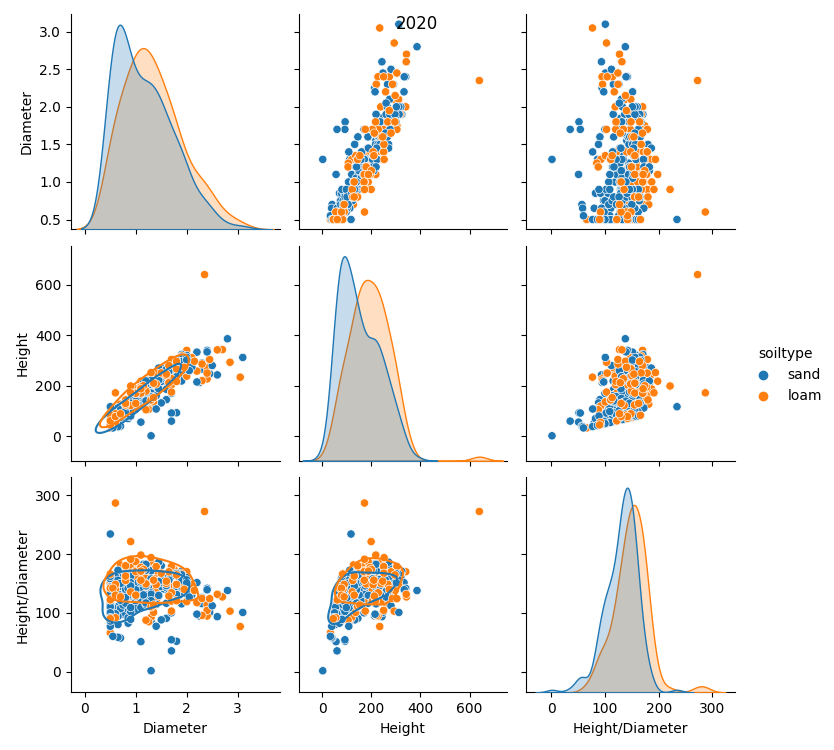
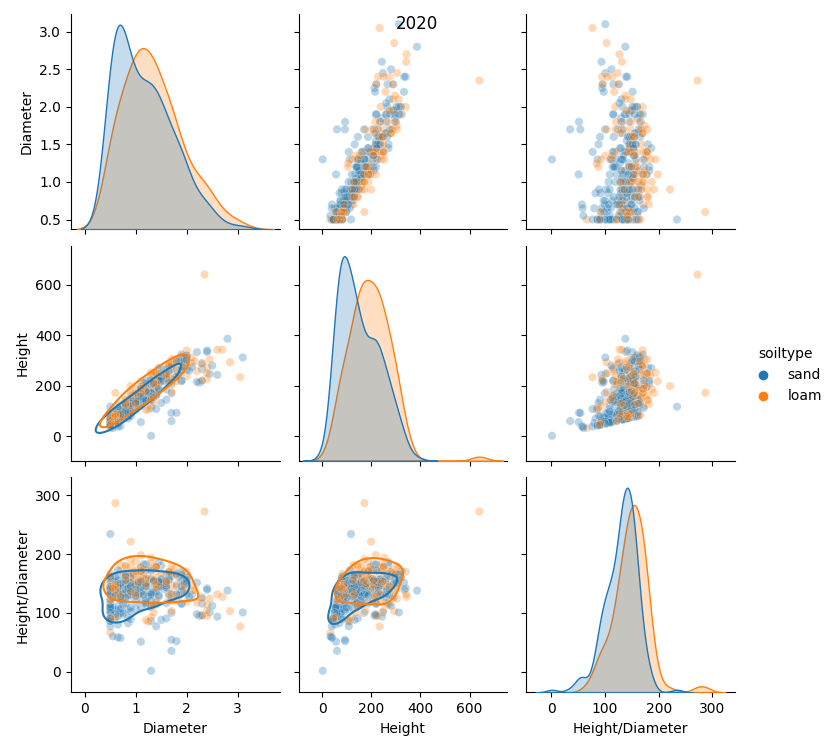
setting alpha to 0.3 in scatter plots

diff --git a/analysis.py b/analysis.py
@@ -66,6 +66,7 @@ def make_scatter_plot(data):
             data[data["year"].isin(years)],
             hue="soiltype",
             diag_kws={"common_norm": False},
+            plot_kws={"alpha": 0.3},
         )
         pp.map_lower(sns.kdeplot, levels=[0.35], common_norm=False)
         plt.gcf().suptitle("+".join(years))
@@ -77,6 +78,7 @@ def make_scatter_plot(data):
                 data[(data["year"].isin(years)) & (data["soiltype"] == s_type)],
                 hue="plot_id",
                 diag_kws={"common_norm": False},
+                plot_kws={"alpha": 0.3},
             )
             pp.map_lower(sns.kdeplot, levels=[0.35], common_norm=False)
             plt.gcf().suptitle("+".join(years))
